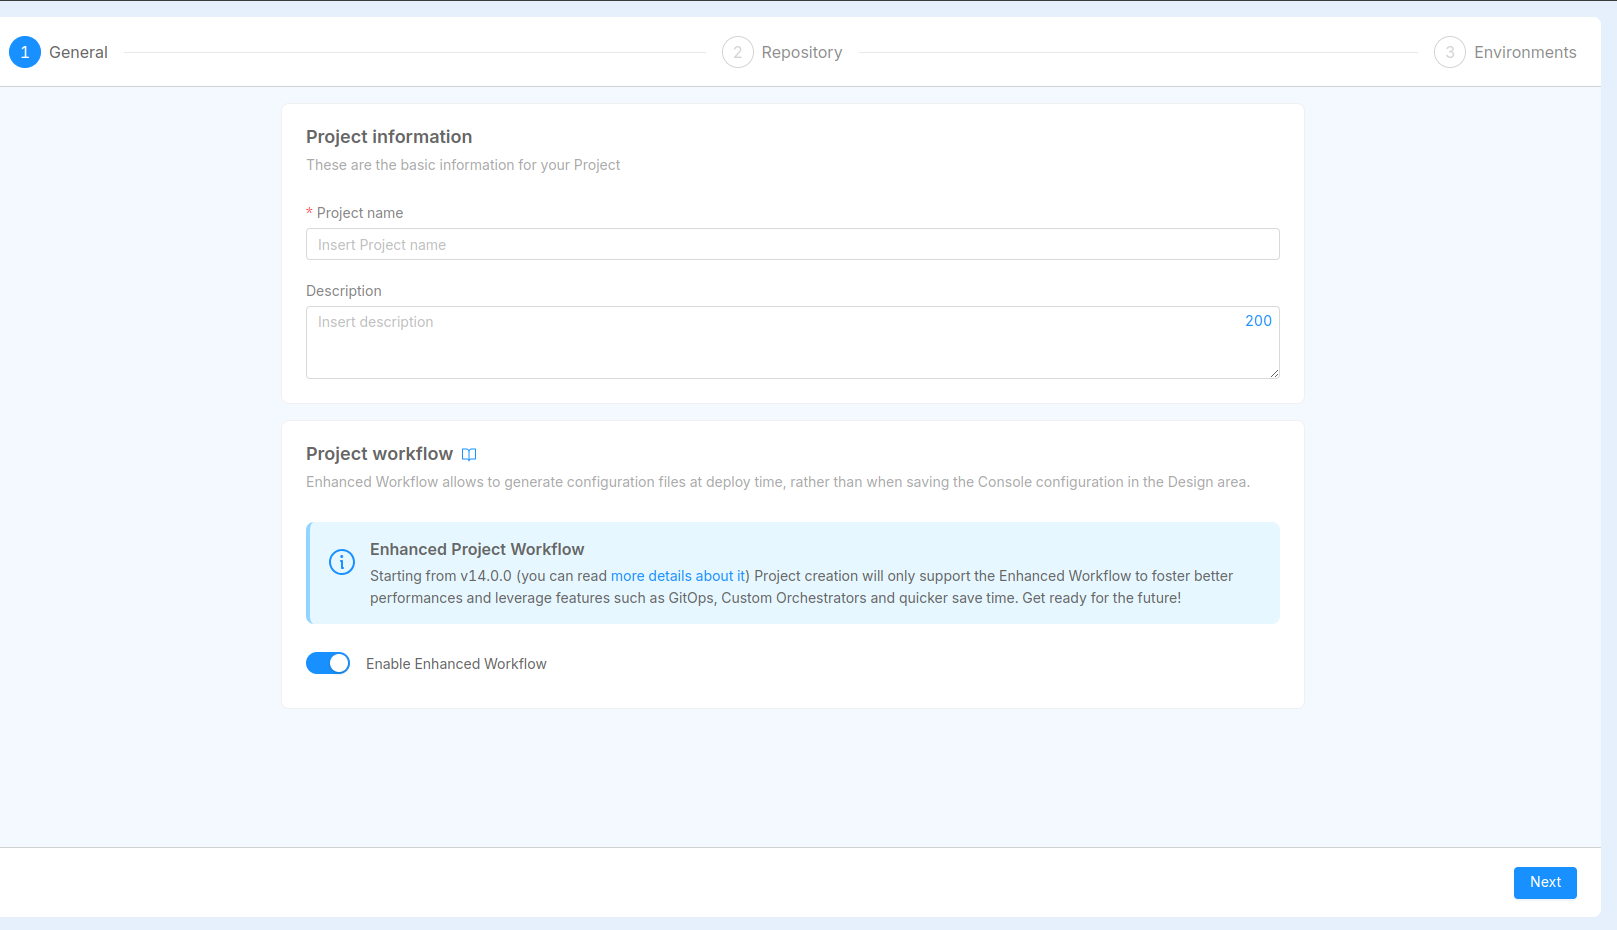
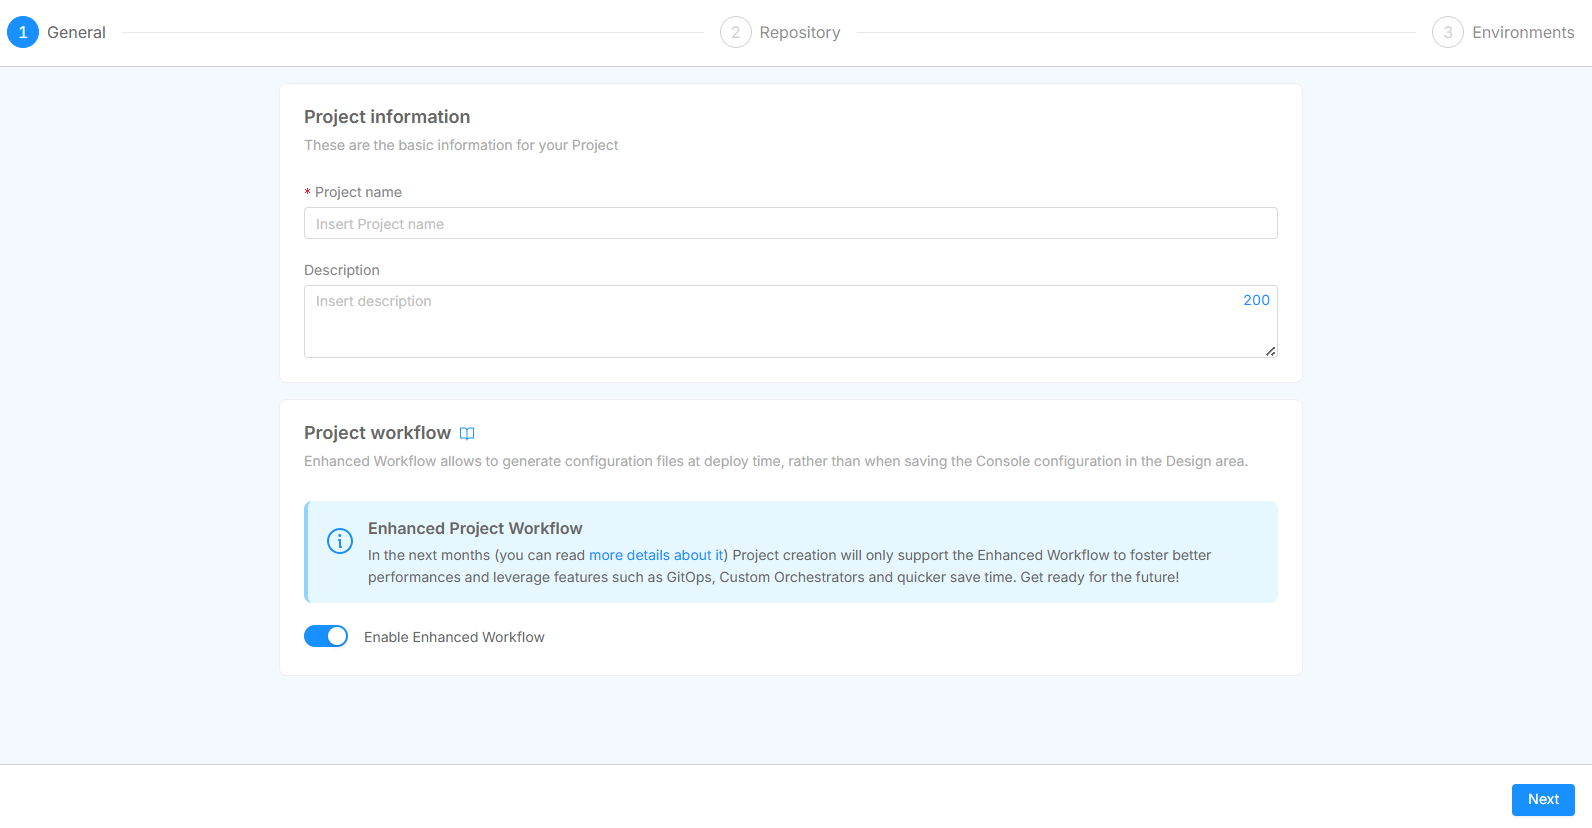
setup rn v14.0.0 (#2094)
* setup rn v14.0.0

* substituted enhanced screenshot

* added info on kubernetes info tutorial

* fixed enhanced reference on v13.1.0

* Update v13.1.0.md

* Update v14.0.0.md

* Update v14.0.0.md

* Update v14.0.0.md

* Update docs/release-notes/v14.0.0.md

* added extensions with composer new feature

* added software catalog uodates

* added marketplace API deprecation

* Update v14.0.0.md

* Update v14.0.0.md

* added preview banner

* added link

* fix links

* add img

* add new content

* add extension

* fix link

* added images for infrastructure projects

* little fixes

* little fixes

* add links

* added probable chart helm version for preview release

* added gitlab ref on infra projects

* Update v14.0.0.mdx

* Update v14.0.0.mdx

* Update v14.0.0.mdx

* Update v14.0.0.mdx

* Update v14.0.0.mdx

---------

diff --git a/versioned_docs/version-13.x.x/release-notes/v13.1.0.md b/versioned_docs/version-13.x.x/release-notes/v13.1.0.md
@@ -40,9 +40,9 @@ If necessary, the new interface documentation can be found directly through the 
 The Enhanced Workflow is now enabled by default when creating new Projects, with the toggle switched on automatically in the Project creation flow.
 
 :::info
-Please note that, starting from **v14.0.0**, new Projects will **exclusively** be created with the Enhanced Workflow, fostering better performances and leveraging features such as GitOps, Custom Orchestrators and quicker configuration save time!
+Please note that, in the next future, new Projects will **exclusively** be created with the Enhanced Workflow, fostering better performances and leveraging features such as GitOps, Custom Orchestrators and quicker configuration save time!
 
-For more information about Enhanced Project Workflow, visit the related [documentation page](/development_suite/set-up-infrastructure/overview.md).
+More information will be provided with future Console updates. To discover more about Enhanced Project Workflow, visit the related [documentation page](/development_suite/set-up-infrastructure/overview.md).
 :::
 
 #### New Apply Extension Body Schema

diff --git a/docs/console/tutorials/import-brownfield-project.md b/docs/console/tutorials/import-brownfield-project.md
@@ -6,7 +6,7 @@ sidebar_label: Import Brownfield Project
 
 # Import Brownfield Project
 
-Starting from version `0.17` of `miactl`, the `import` command is supported. This command allows you to import declarative YML definitions of Kubernetes resources into an empty project in the Mia-Platform Console. 
+Starting from version `0.17` of `miactl` and version `13.6.0` of Mia-Platform Console, the `import` command is supported. This command allows you to import declarative YML definitions of Kubernetes resources into an empty project in the Mia-Platform Console. 
 
 The `import` command takes one or more YML files describing Kubernetes resources as input and converts them into configurations for the Mia-Platform Console, so they can be used within the project where they are being imported.
 

diff --git a/docs/console/project-configuration/infrastructure-project.md b/docs/console/project-configuration/infrastructure-project.md
@@ -22,7 +22,11 @@ This option unlocks a dedicated setup flow and enables the creation of a Project
 
 Each Infrastructure Project includes a specific section for managing **infrastructure components**.
 
-You can currently create an infrastructure component from scratch; in future releases, you’ll also be able to instantiate components from a **Marketplace**.  
+You can currently create an infrastructure component only from scratch. 
+
+:::info
+At the moment, the only supported provider for Infrastructure Projects is **GitLab**.
+:::
 
 To create a new infrastructure component from scratch, you need to provide the following information:
 

diff --git a/docs/release-notes/versions.md b/docs/release-notes/versions.md
@@ -7,4 +7,4 @@ slug: "/release-notes/versions"
 ---
 | Release | Release notes                                       |
 |---------|-----------------------------------------------------|
-| v14.0.0 | [Read the release notes](/release-notes/v14.0.0.md) |
+| v14.0.0 | [Read the release notes](/release-notes/v14.0.0.mdx) |
